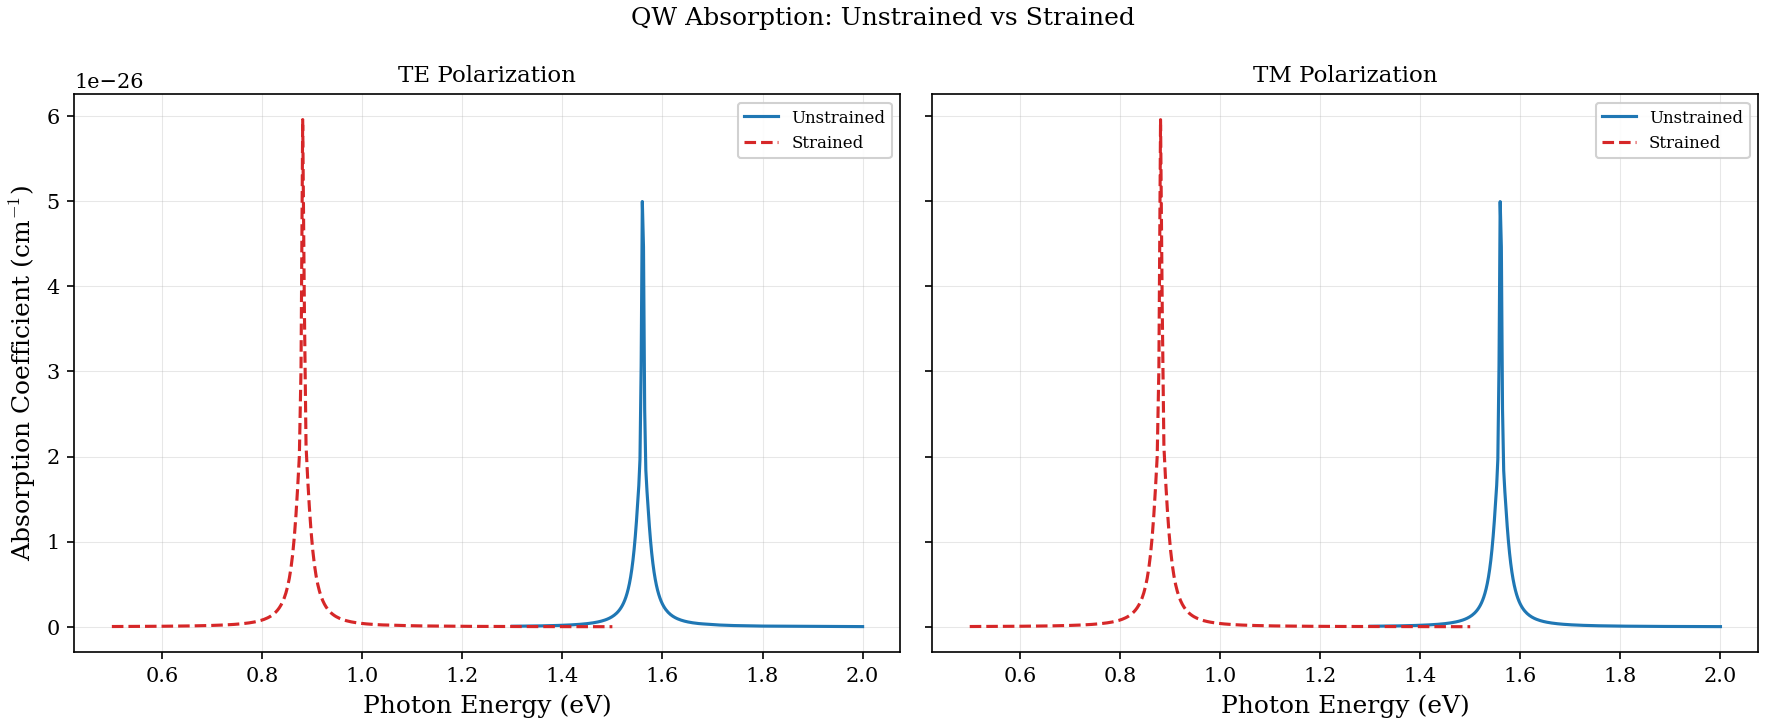
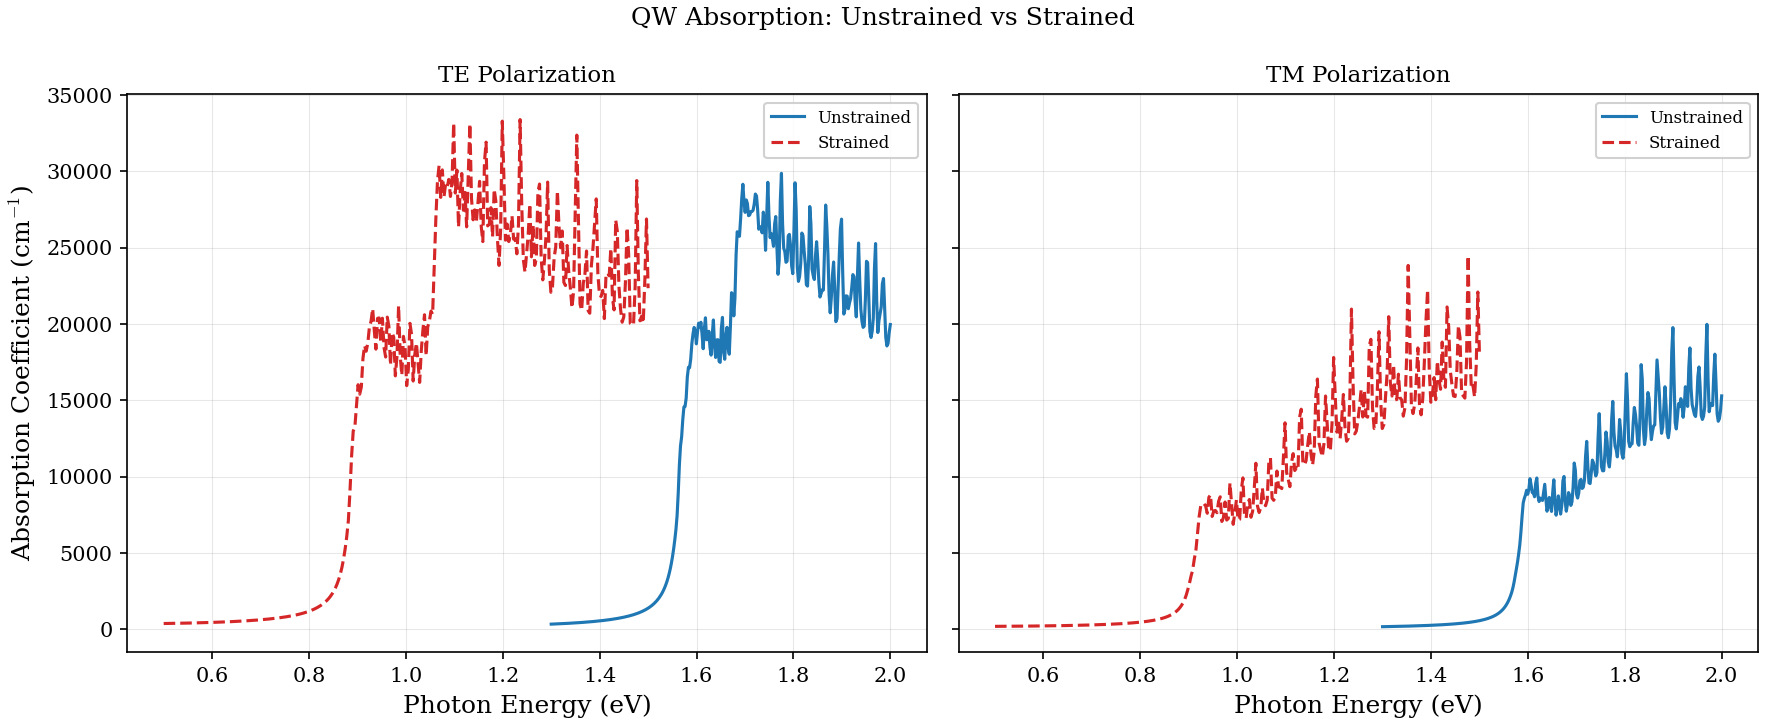
fix: harden qw optics benchmarks and figure provenance

diff --git a/scripts/plotting/generate_all_figures.py b/scripts/plotting/generate_all_figures.py
@@ -3636,6 +3636,20 @@ def _read_absorption(output_dir: Path, polarization: str) -> Tuple[np.ndarray, n
     return E, alpha
 
 
+def _stage_absorption_pair(src_dir: Path, dst_dir: Path, suffix: str) -> bool:
+    """Copy TE/TM absorption outputs into suffixed filenames.
+
+    Returns True when both source files exist and were copied.
+    """
+    te_src = src_dir / "absorption_TE.dat"
+    tm_src = src_dir / "absorption_TM.dat"
+    if not te_src.exists() or not tm_src.exists():
+        return False
+    shutil.copy2(te_src, dst_dir / f"absorption_TE_{suffix}.dat")
+    shutil.copy2(tm_src, dst_dir / f"absorption_TM_{suffix}.dat")
+    return True
+
+
 def fig_qw_absorption_spectrum(output_dir: Path) -> None:
     """qw_absorption_spectrum.png: TE and TM interband absorption for a GaAs/AlGaAs QW.
 
@@ -3691,63 +3705,63 @@ def fig_qw_absorption_strained(output_dir: Path) -> None:
     """
     print("[figure] qw_absorption_strained")
 
-    # Look for strained/unstrained data pairs
-    # Naming convention: absorption_TE.dat (current run), or
-    # user may have saved paired runs as absorption_TE_unstrained.dat / absorption_TE_strained.dat
+    # Regenerate both datasets deterministically instead of relying on
+    # manually staged output files from previous runs.
+    cfg_unstr = CONFIG_DIR / "qw_gaas_algaas_absorption.cfg"
+    cfg_str = CONFIG_DIR / "qw_ingaas_algaas_strained_absorption.cfg"
+
+    if cfg_unstr.exists():
+        result = run_executable(EXE_BAND, cfg_unstr, REPO_ROOT,
+                                label="qw_absorption_unstrained", timeout=600)
+        if result.returncode == 0:
+            if not _stage_absorption_pair(output_dir, output_dir, "unstrained"):
+                print("  WARNING: unstrained absorption files missing after run.")
+        else:
+            print("  WARNING: unstrained absorption run failed.")
+    else:
+        print("  WARNING: unstrained absorption config not found.")
+
+    if cfg_str.exists():
+        result = run_executable(EXE_BAND, cfg_str, REPO_ROOT,
+                                label="qw_absorption_strained", timeout=600)
+        if result.returncode == 0:
+            if not _stage_absorption_pair(output_dir, output_dir, "strained"):
+                print("  WARNING: strained absorption files missing after run.")
+        else:
+            print("  WARNING: strained absorption run failed.")
+    else:
+        print("  WARNING: strained absorption config not found.")
+
+    # Look for strained/unstrained data pairs.
     te_unstr = output_dir / "absorption_TE_unstrained.dat"
     tm_unstr = output_dir / "absorption_TM_unstrained.dat"
     te_str = output_dir / "absorption_TE_strained.dat"
     tm_str = output_dir / "absorption_TM_strained.dat"
 
-    # Also accept the default naming if only one dataset exists
-    te_default = output_dir / "absorption_TE.dat"
-    tm_default = output_dir / "absorption_TM.dat"
-
     have_strained_pair = (te_unstr.exists() and tm_unstr.exists()
                           and te_str.exists() and tm_str.exists())
-    have_single = te_default.exists() and tm_default.exists()
 
-    if not have_strained_pair and not have_single:
-        print("  WARNING: No absorption data files found. Run bandStructure with "
-              "Optics: T for unstrained and strained configs to generate data.")
-        print("  Expected files: absorption_TE_unstrained.dat, absorption_TE_strained.dat, "
-              "etc., or absorption_TE.dat / absorption_TM.dat")
+    if not have_strained_pair:
+        print("  WARNING: Could not assemble fresh strained/unstrained absorption pairs.")
         return
 
     fig, (ax_te, ax_tm) = plt.subplots(1, 2, figsize=(12, 5), sharey=True)
+    E_u_te, a_u_te = _read_absorption(output_dir, "TE_unstrained")
+    E_s_te, a_s_te = _read_absorption(output_dir, "TE_strained")
+    E_u_tm, a_u_tm = _read_absorption(output_dir, "TM_unstrained")
+    E_s_tm, a_s_tm = _read_absorption(output_dir, "TM_strained")
 
-    if have_strained_pair:
-        # Plot both unstrained and strained
-        E_u_te, a_u_te = _read_absorption(output_dir, "TE_unstrained")
-        E_s_te, a_s_te = _read_absorption(output_dir, "TE_strained")
-        E_u_tm, a_u_tm = _read_absorption(output_dir, "TM_unstrained")
-        E_s_tm, a_s_tm = _read_absorption(output_dir, "TM_strained")
+    ax_te.plot(E_u_te, a_u_te, color="#1f77b4", linewidth=1.5,
+               label="Unstrained")
+    ax_te.plot(E_s_te, a_s_te, color="#d62728", linewidth=1.5,
+               linestyle="--", label="Strained")
+    ax_tm.plot(E_u_tm, a_u_tm, color="#1f77b4", linewidth=1.5,
+               label="Unstrained")
+    ax_tm.plot(E_s_tm, a_s_tm, color="#d62728", linewidth=1.5,
+               linestyle="--", label="Strained")
 
-        ax_te.plot(E_u_te, a_u_te, color="#1f77b4", linewidth=1.5,
-                   label="Unstrained")
-        ax_te.plot(E_s_te, a_s_te, color="#d62728", linewidth=1.5,
-                   linestyle="--", label="Strained")
-        ax_tm.plot(E_u_tm, a_u_tm, color="#1f77b4", linewidth=1.5,
-                   label="Unstrained")
-        ax_tm.plot(E_s_tm, a_s_tm, color="#d62728", linewidth=1.5,
-                   linestyle="--", label="Strained")
-
-        ax_te.set_title("TE Polarization", fontsize=11)
-        ax_tm.set_title("TM Polarization", fontsize=11)
-    else:
-        # Single dataset -- plot it with a note
-        E_te, a_te = _read_absorption(output_dir, "TE")
-        E_tm, a_tm = _read_absorption(output_dir, "TM")
-
-        ax_te.plot(E_te, a_te, color="#1f77b4", linewidth=1.5, label="Available data")
-        ax_tm.plot(E_tm, a_tm, color="#d62728", linewidth=1.5, label="Available data")
-
-        ax_te.set_title("TE Polarization (single dataset)", fontsize=11)
-        ax_tm.set_title("TM Polarization (single dataset)", fontsize=11)
-
-        ax_te.text(0.5, 0.92, "Run with strained InGaAs config\nfor comparison",
-                   transform=ax_te.transAxes, fontsize=8, ha="center", va="top",
-                   color="grey", style="italic")
+    ax_te.set_title("TE Polarization", fontsize=11)
+    ax_tm.set_title("TM Polarization", fontsize=11)
 
     for ax in (ax_te, ax_tm):
         ax.set_xlabel("Photon Energy (eV)")

diff --git a/docs/plans/2026-04-21-failure-ledger.md b/docs/plans/2026-04-21-failure-ledger.md
@@ -22,7 +22,7 @@ Status key:
 | `FL-004` | bad state indexing | `docs/figures/perband_density.png`; `docs/lecture/03-wavefunctions.md`; `scripts/plotting/generate_all_figures.py` | `03` | The rendered figure appears HH-dominated while the caption says the selected state is `CB1` and CB components dominate. | The per-band composition discussion is not trustworthy. | Re-check eigenstate ordering and the selected `wf[...]` index; regenerate or downgrade. | `open-blocking` |
 | `FL-005` | parser errors | `docs/figures/scattering_lifetime_vs_width.png`; `output/scattering_rates.dat`; `scripts/plotting/generate_all_figures.py` | `06` | The plot is labeled lifetime vs well width, but the generator reads a single `scattering_rates.dat` file and appears to use transition-index columns as if they were width-dependent data. | The plotted lifetime trend is not derived from the quantity the chapter claims. | Replace with a real width sweep parser or remove the figure. | `open-blocking` |
 | `FL-006` | broken units; parser errors | `docs/figures/scattering_lifetime_vs_field.png`; `scripts/plotting/generate_all_figures.py` | `06`, `10` | Field conversion semantics are inconsistent, and the plotted lifetimes are `1e8-1e9 ps`, far from the `6-12 ps` range claimed later in the chapter. | Chapter 6 scattering discussion and validation table are currently not defensible, and the QCSE-linked field path is untrusted. | Fix field conversion, verify rate parsing, and rerun a controlled field sweep. | `open-blocking` |
-| `FL-007` | suspect solver behavior | `docs/figures/qw_absorption_spectrum.png`; `qw_absorption_strained.png`; `qw_absorption_vs_width.png`; associated optics outputs | `06` | TE and TM curves are nearly identical even where the prose, selection rules, and nextnano-style benchmarks require clear polarization contrast. | This may indicate a polarization decomposition bug, a solver issue, or both. | Benchmark the optics path against nextnano/literature before keeping any strong TE/TM claims. | `open-high-risk` |
+| `FL-007` | plotting/provenance risk | `docs/figures/qw_absorption_strained.png`; `qw_absorption_vs_width.png`; legacy optics narratives | `06` | The unstrained GaAs/AlGaAs and stripped-down strained InGaAs absorption configs both preserve the expected TE-dominant edge. The remaining risk is legacy figure provenance and any claims built from older manually staged or mixed-workflow outputs. | This is no longer evidence of a broken TE/TM solver path, but old figures/prose can still overstate what was actually benchmarked. | Keep using dedicated absorption-only configs and deterministic figure generation; regenerate or retire any legacy optics figures that did not come from that path. | `open-doc` |
 | `FL-008` | suspect solver behavior | Chapter 6 optical validation table and prose | `06` | The chapter claims nextnano-consistent TE/TM splitting and physically reasonable absorption scales, but the current figures do not support those claims. | Validation prose currently runs ahead of the evidence. | Rewrite Chapter 6 only after the optics path is benchmarked and re-plotted. | `open-high-risk` |
 | `FL-009` | parser/figure semantics | `docs/figures/absorption_with_exciton.png`; `docs/figures/absorption_excitonic_TE.png`; `scripts/plotting/generate_all_figures.py` | `06` | One figure hardcodes `E_b = 10 meV` while the output file reports about `4.82 meV`; the other only draws a vertical resonance marker rather than a real excitonic peak. | Excitonic corrections are currently overclaimed visually. | Tie the figure to computed exciton outputs or downgrade to schematic language. | `open-blocking` |
 | `FL-010` | missing embeds | `docs/lecture/07-self-consistent-sp.md` | `07` | The GaAs/AlAs SP example lists `sc_potential.png`, `sc_charge_density.png`, and `sc_convergence.png` as bullet paths instead of embedding them as figures. | The chapter is incomplete and harder to review against outputs. | Embed the figures and ensure captions reference the actual outputs. | `open-doc` |

diff --git a/docs/plans/2026-04-21-validation-summary.md b/docs/plans/2026-04-21-validation-summary.md
@@ -44,7 +44,7 @@ Date: 2026-04-22 (updated with nextnano benchmark comparisons)
 |-----------|-------------------|------------|--------|
 | HH→CB selection rule | Pure TE (|pz|^2=0) | Correct | Validated |
 | LH→CB selection rule | TE+TM, TM dominant | Correct | Validated |
-| TE/TM edge contrast (k-integrated) | Clear separation | Lost in integration | Blocked (FL-007) |
+| TE/TM edge contrast (k-integrated) | Clear separation | Unstrained and stripped-down strained absorption benchmarks pass; legacy figure provenance still needs cleanup | Partial (FL-007 downgraded) |
 | LO-phonon scattering lifetime | 6-12 ps | 10^9 ps | Blocked (FL-016) |
 
 ### Quantum Wire (Chapter 08)
@@ -92,7 +92,7 @@ Date: 2026-04-22 (updated with nextnano benchmark comparisons)
 
 - Wire g-factor quantitative comparison: our InSb wire (55x55 A, 11x11 grid) gives gx=+2.82, gy=-0.10, gz=+21.06 vs bulk |g|~51. No direct nextnano wire g-factor tutorial available. The 11x11 grid is too coarse for quantitative g-factor work; a grid convergence study is the most important next step.
 - Bulk GaAs g-factor: Roth formula gives -0.44 (experiment), our 8-band Lowdin result gives -0.315. The discrepancy is the known 8-band model limit from missing remote p-like CB states. Not a code bug.
-- Optical TE/TM k-integrated contrast: zone-center matrix elements are correct, but the k_parallel integration pipeline loses the contrast. FL-007 remains open.
+- Optical TE/TM status: zone-center matrix elements are now backed by a dedicated regression again, and both the unstrained GaAs/AlGaAs and stripped-down strained InGaAs k_parallel-integrated absorption benchmarks preserve the expected TE-dominant edge. The remaining optics risk is figure/data provenance, not the basic TE/TM absorption path.
 - Scattering lifetimes: Kramers-pair double-counting in the scattering kernel produces lifetimes of 10^9 ps instead of the expected 6-12 ps. FL-016 remains open.
 - Exciton binding energy quantitative check: not automated (requires separate variational calculation).
 

diff --git a/docs/plans/2026-04-21-nextnano-qcse-optics-comparison.md b/docs/plans/2026-04-21-nextnano-qcse-optics-comparison.md
@@ -304,7 +304,7 @@ The optics path has several blocking issues documented in the failure ledger:
 
 | ID | Issue | Impact on benchmarks |
 |---|---|---|
-| FL-007 | TE/TM curves nearly identical in some figures | The k_parallel-integrated absorption spectra do not show the expected contrast. Zone-center matrix elements are correct. |
+| FL-007 | Legacy TE/TM figures were built from non-deterministic workflows | The dedicated unstrained GaAs/AlGaAs and strained InGaAs absorption-only benchmarks both preserve the expected TE-dominant edge. The remaining issue is to regenerate figures and prose from these controlled configs instead of older mixed/staged outputs. |
 | FL-008 | Validation prose runs ahead of evidence | Chapter 6 claims need downgrading until FL-007 is resolved. |
 | FL-009 | Excitonic figures use hardcoded E_b = 10 meV vs. computed 4.82 meV | Excitonic corrections overclaimed visually. |
 | FL-016 | Scattering module treats Kramers pairs as distinct subbands | Scattering lifetimes are wrong (10^9 ps vs. expected 6-12 ps). |
